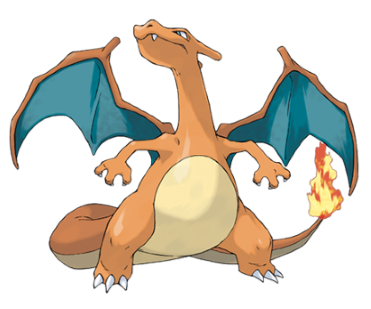
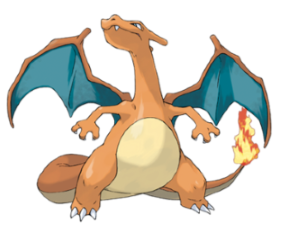
Pokemain con imagenes

diff --git a/taller3/src/app/component/pokemain/pokemain.component.scss b/taller3/src/app/component/pokemain/pokemain.component.scss
@@ -6,9 +6,9 @@ main
         {
             #icono
             {
-                width: 25px;
+                width: 19px;
                 height: 25px;   
-                background-color: orangered; 
+                background-image: url('../../../assets/llama.png');
             }
 
             #texto
@@ -36,8 +36,8 @@ main
         #imagen
         {
             background-image: url('../../../assets/ch.png');
-            width: 371px;
-            height: 309px;
+            width: 281px;
+            height: 234px;
             border-radius: 10px;
         }
 
